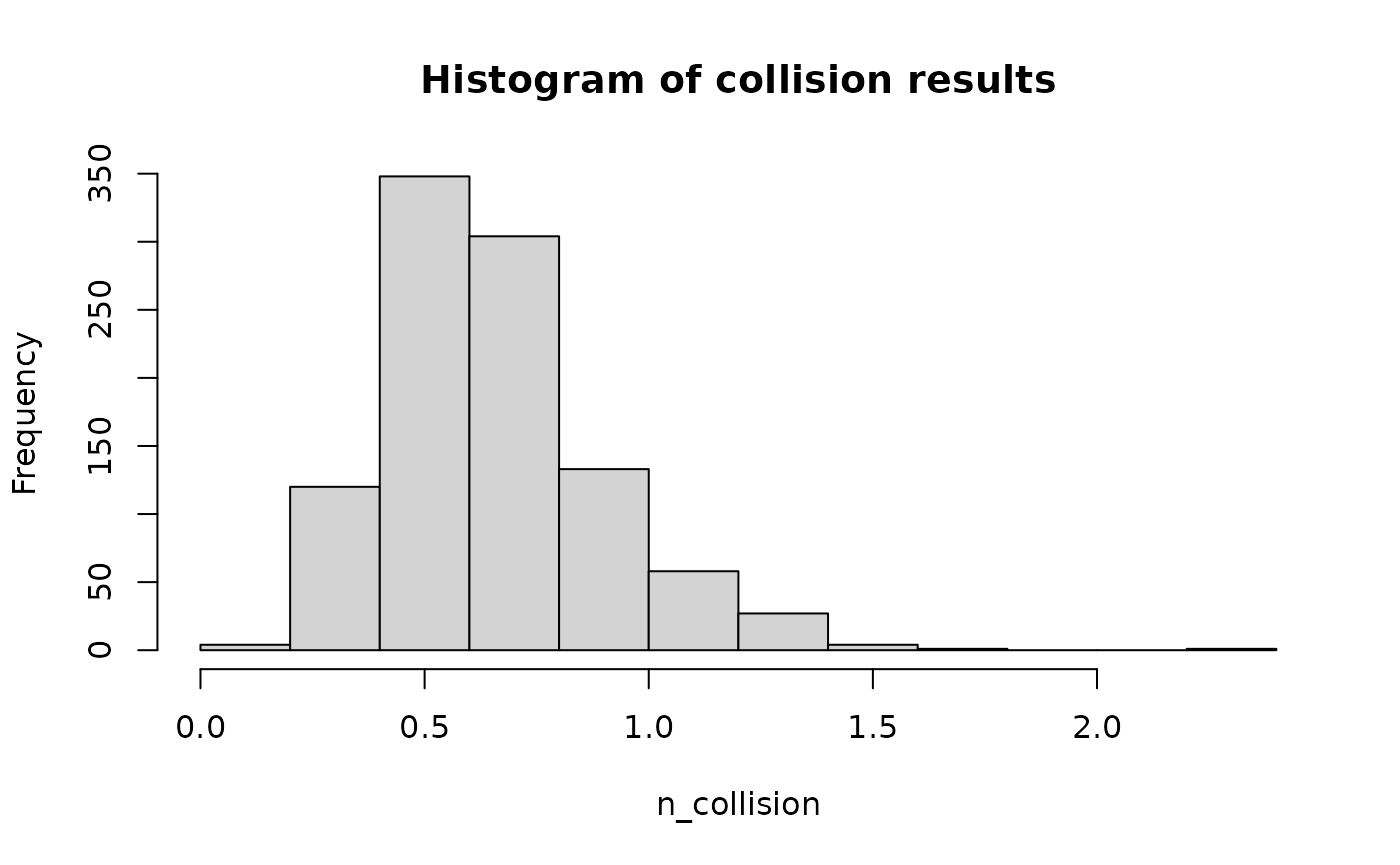
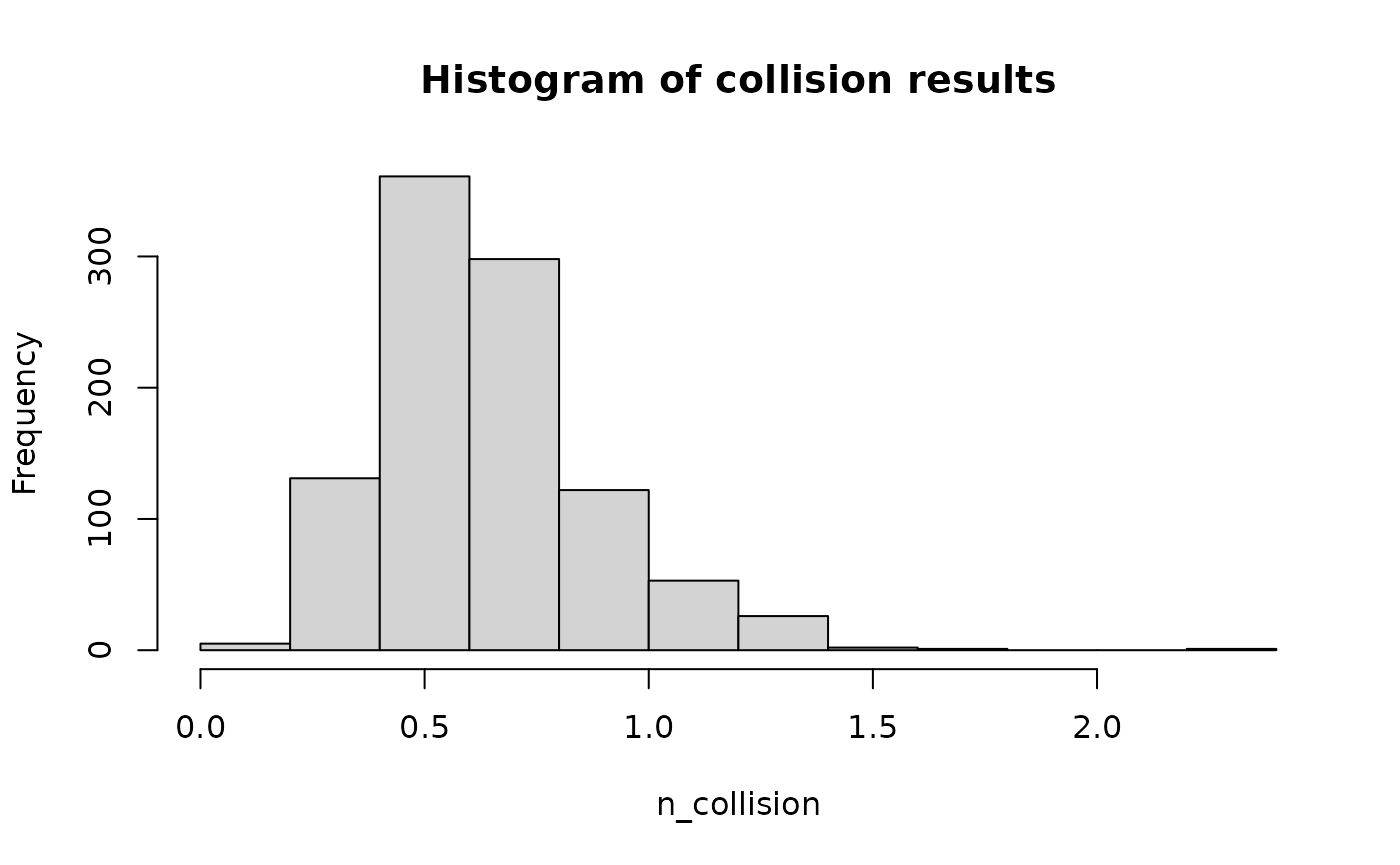
Deploying to gh-pages from @ SymbolixAU/collision@28f94b2912ca076bbca2ce5d2544dd3ceb6ca486 🚀

diff --git a/reference/define_turbine.html b/reference/define_turbine.html
@@ -1,5 +1,5 @@
 <!DOCTYPE html>
-<!-- Generated by pkgdown: do not edit by hand --><html lang="en"><head><meta http-equiv="Content-Type" content="text/html; charset=UTF-8"><meta charset="utf-8"><meta http-equiv="X-UA-Compatible" content="IE=edge"><meta name="viewport" content="width=device-width, initial-scale=1, shrink-to-fit=no"><title>define_turbine — define_turbine • collision</title><!-- favicons --><link rel="icon" type="image/png" sizes="96x96" href="../favicon-96x96.png"><link rel="icon" type="”image/svg+xml”" href="../favicon.svg"><link rel="apple-touch-icon" sizes="180x180" href="../apple-touch-icon.png"><link rel="icon" sizes="any" href="../favicon.ico"><link rel="manifest" href="../site.webmanifest"><script src="../deps/jquery-3.6.0/jquery-3.6.0.min.js"></script><meta name="viewport" content="width=device-width, initial-scale=1, shrink-to-fit=no"><link href="../deps/bootstrap-5.3.1/bootstrap.min.css" rel="stylesheet"><script src="../deps/bootstrap-5.3.1/bootstrap.bundle.min.js"></script><link href="../deps/font-awesome-6.5.2/css/all.min.css" rel="stylesheet"><link href="../deps/font-awesome-6.5.2/css/v4-shims.min.css" rel="stylesheet"><script src="../deps/headroom-0.11.0/headroom.min.js"></script><script src="../deps/headroom-0.11.0/jQuery.headroom.min.js"></script><script src="../deps/bootstrap-toc-1.0.1/bootstrap-toc.min.js"></script><script src="../deps/clipboard.js-2.0.11/clipboard.min.js"></script><script src="../deps/search-1.0.0/autocomplete.jquery.min.js"></script><script src="../deps/search-1.0.0/fuse.min.js"></script><script src="../deps/search-1.0.0/mark.min.js"></script><!-- pkgdown --><script src="../pkgdown.js"></script><meta property="og:title" content="define_turbine — define_turbine"><meta name="description" content="make a list of turbine parameters for input into the default CRM"><meta property="og:description" content="make a list of turbine parameters for input into the default CRM"><meta property="og:image" content="https://symbolixau.github.io/collision/logo.png"></head><body>
+<!-- Generated by pkgdown: do not edit by hand --><html lang="en"><head><meta http-equiv="Content-Type" content="text/html; charset=UTF-8"><meta charset="utf-8"><meta http-equiv="X-UA-Compatible" content="IE=edge"><meta name="viewport" content="width=device-width, initial-scale=1, shrink-to-fit=no"><title>define_turbine — define_turbine • collision</title><!-- favicons --><link rel="icon" type="image/png" sizes="96x96" href="../favicon-96x96.png"><link rel="icon" type="”image/svg+xml”" href="../favicon.svg"><link rel="apple-touch-icon" sizes="180x180" href="../apple-touch-icon.png"><link rel="icon" sizes="any" href="../favicon.ico"><link rel="manifest" href="../site.webmanifest"><script src="../deps/jquery-3.6.0/jquery-3.6.0.min.js"></script><meta name="viewport" content="width=device-width, initial-scale=1, shrink-to-fit=no"><link href="../deps/bootstrap-5.3.1/bootstrap.min.css" rel="stylesheet"><script src="../deps/bootstrap-5.3.1/bootstrap.bundle.min.js"></script><link href="../deps/font-awesome-6.5.2/css/all.min.css" rel="stylesheet"><link href="../deps/font-awesome-6.5.2/css/v4-shims.min.css" rel="stylesheet"><script src="../deps/headroom-0.11.0/headroom.min.js"></script><script src="../deps/headroom-0.11.0/jQuery.headroom.min.js"></script><script src="../deps/bootstrap-toc-1.0.1/bootstrap-toc.min.js"></script><script src="../deps/clipboard.js-2.0.11/clipboard.min.js"></script><script src="../deps/search-1.0.0/autocomplete.jquery.min.js"></script><script src="../deps/search-1.0.0/fuse.min.js"></script><script src="../deps/search-1.0.0/mark.min.js"></script><!-- pkgdown --><script src="../pkgdown.js"></script><meta property="og:title" content="define_turbine — define_turbine"><meta name="description" content="Make a list of turbine parameters for input into the default CRM."><meta property="og:description" content="Make a list of turbine parameters for input into the default CRM."><meta property="og:image" content="https://symbolixau.github.io/collision/logo.png"></head><body>
     <a href="#main" class="visually-hidden-focusable">Skip to contents</a>
 
 
@@ -39,7 +39,7 @@
     </div>
 
     <div class="ref-description section level2">
-    <p>make a list of turbine parameters for input into the default CRM</p>
+    <p>Make a list of turbine parameters for input into the default CRM.</p>
     </div>
 
     <div class="section level2">
@@ -70,8 +70,7 @@
 
 
 <dl><dt id="arg-model-id">model_id<a class="anchor" aria-label="anchor" href="#arg-model-id"></a></dt>
-<dd><p>character; Label for turbine model - allows the user to
-define multiple turbine types on a site</p></dd>
+<dd><p>character; Label for turbine model</p></dd>
 
 
 <dt id="arg-blade-length">blade_length<a class="anchor" aria-label="anchor" href="#arg-blade-length"></a></dt>
@@ -142,12 +141,12 @@ are operational. A single number or distribution information using
 </dl></div>
     <div class="section level2">
     <h2 id="value">Value<a class="anchor" aria-label="anchor" href="#value"></a></h2>
-    <p>list where items define the value or stochastic distribution for
+    <p>list whose items define the value or stochastic distribution for
 each parameter</p>
     </div>
     <div class="section level2">
     <h2 id="details">Details<a class="anchor" aria-label="anchor" href="#details"></a></h2>
-    <p>Makes a list of parameters for the a given turbine</p>
+    <p>Makes a list of parameters for the a given turbine.</p>
     </div>
     <div class="section level2">
     <h2 id="details-1">Details<a class="anchor" aria-label="anchor" href="#details-1"></a></h2>
@@ -156,7 +155,11 @@ See <a href="set_random.html">set_random</a> for more information on setting
 up stochastic inputs.</p></li>
 <li><p>a single number representing the average (preferably median) of the
 variable</p></li>
-</ul></div>
+</ul><p>If this object is being defined for multiple turbines of the same model
+<code>prop_operational</code> should be the average between all turbines. For example
+if there are two turbines, and one is operational for 24 hours while the other
+is operational for 18 hours each day, then <code>prop_operational = (0.75 + 1)/2 = 0.875</code>.</p>
+    </div>
 
     <div class="section level2">
     <h2 id="ref-examples">Examples<a class="anchor" aria-label="anchor" href="#ref-examples"></a></h2>

diff --git a/reference/prob_collision_dynamic.html b/reference/prob_collision_dynamic.html
@@ -55,7 +55,8 @@
 <span>  <span class="va">bird_length</span>,</span>
 <span>  <span class="va">bird_speed</span>,</span>
 <span>  <span class="va">prop_at_height</span>,</span>
-<span>  <span class="va">prop_below_height</span></span>
+<span>  <span class="va">prop_below_height</span>,</span>
+<span>  prop_operational <span class="op">=</span> <span class="fl">1</span></span>
 <span><span class="op">)</span></span></code></pre></div>
     </div>
 
@@ -105,6 +106,12 @@
 
 <dt id="arg-prop-below-height">prop_below_height<a class="anchor" aria-label="anchor" href="#arg-prop-below-height"></a></dt>
 <dd><p>proportion of flights below rotor swept height</p></dd>
+
+
+<dt id="arg-prop-operational">prop_operational<a class="anchor" aria-label="anchor" href="#arg-prop-operational"></a></dt>
+<dd><p>numeric; Proportion of a 24 hour day that turbines
+are operational. A single number or distribution information using
+<a href="set_random.html">set_random</a>. Default 1. See <code><a href="define_turbine.html">define_turbine()</a></code> for more detail.</p></dd>
 
 </dl></div>
     <div class="section level2">

diff --git a/reference/define_bird.html b/reference/define_bird.html
@@ -1,5 +1,5 @@
 <!DOCTYPE html>
-<!-- Generated by pkgdown: do not edit by hand --><html lang="en"><head><meta http-equiv="Content-Type" content="text/html; charset=UTF-8"><meta charset="utf-8"><meta http-equiv="X-UA-Compatible" content="IE=edge"><meta name="viewport" content="width=device-width, initial-scale=1, shrink-to-fit=no"><title>make a list of bird parameters for input into CRM — define_bird • collision</title><!-- favicons --><link rel="icon" type="image/png" sizes="96x96" href="../favicon-96x96.png"><link rel="icon" type="”image/svg+xml”" href="../favicon.svg"><link rel="apple-touch-icon" sizes="180x180" href="../apple-touch-icon.png"><link rel="icon" sizes="any" href="../favicon.ico"><link rel="manifest" href="../site.webmanifest"><script src="../deps/jquery-3.6.0/jquery-3.6.0.min.js"></script><meta name="viewport" content="width=device-width, initial-scale=1, shrink-to-fit=no"><link href="../deps/bootstrap-5.3.1/bootstrap.min.css" rel="stylesheet"><script src="../deps/bootstrap-5.3.1/bootstrap.bundle.min.js"></script><link href="../deps/font-awesome-6.5.2/css/all.min.css" rel="stylesheet"><link href="../deps/font-awesome-6.5.2/css/v4-shims.min.css" rel="stylesheet"><script src="../deps/headroom-0.11.0/headroom.min.js"></script><script src="../deps/headroom-0.11.0/jQuery.headroom.min.js"></script><script src="../deps/bootstrap-toc-1.0.1/bootstrap-toc.min.js"></script><script src="../deps/clipboard.js-2.0.11/clipboard.min.js"></script><script src="../deps/search-1.0.0/autocomplete.jquery.min.js"></script><script src="../deps/search-1.0.0/fuse.min.js"></script><script src="../deps/search-1.0.0/mark.min.js"></script><!-- pkgdown --><script src="../pkgdown.js"></script><meta property="og:title" content="make a list of bird parameters for input into CRM — define_bird"><meta name="description" content="Makes a list of avian biological parameters for the bird(s) being modelled
+<!-- Generated by pkgdown: do not edit by hand --><html lang="en"><head><meta http-equiv="Content-Type" content="text/html; charset=UTF-8"><meta charset="utf-8"><meta http-equiv="X-UA-Compatible" content="IE=edge"><meta name="viewport" content="width=device-width, initial-scale=1, shrink-to-fit=no"><title>Make a list of bird parameters for input into CRM — define_bird • collision</title><!-- favicons --><link rel="icon" type="image/png" sizes="96x96" href="../favicon-96x96.png"><link rel="icon" type="”image/svg+xml”" href="../favicon.svg"><link rel="apple-touch-icon" sizes="180x180" href="../apple-touch-icon.png"><link rel="icon" sizes="any" href="../favicon.ico"><link rel="manifest" href="../site.webmanifest"><script src="../deps/jquery-3.6.0/jquery-3.6.0.min.js"></script><meta name="viewport" content="width=device-width, initial-scale=1, shrink-to-fit=no"><link href="../deps/bootstrap-5.3.1/bootstrap.min.css" rel="stylesheet"><script src="../deps/bootstrap-5.3.1/bootstrap.bundle.min.js"></script><link href="../deps/font-awesome-6.5.2/css/all.min.css" rel="stylesheet"><link href="../deps/font-awesome-6.5.2/css/v4-shims.min.css" rel="stylesheet"><script src="../deps/headroom-0.11.0/headroom.min.js"></script><script src="../deps/headroom-0.11.0/jQuery.headroom.min.js"></script><script src="../deps/bootstrap-toc-1.0.1/bootstrap-toc.min.js"></script><script src="../deps/clipboard.js-2.0.11/clipboard.min.js"></script><script src="../deps/search-1.0.0/autocomplete.jquery.min.js"></script><script src="../deps/search-1.0.0/fuse.min.js"></script><script src="../deps/search-1.0.0/mark.min.js"></script><!-- pkgdown --><script src="../pkgdown.js"></script><meta property="og:title" content="Make a list of bird parameters for input into CRM — define_bird"><meta name="description" content="Makes a list of avian biological parameters for the bird(s) being modelled
 as a function directly in R. This function is designed for R-based workflows.
 A function define_bird_csv can be used to bulk upload parameters for
 multiple birds."><meta property="og:description" content="Makes a list of avian biological parameters for the bird(s) being modelled
@@ -39,7 +39,7 @@ multiple birds."><meta property="og:image" content="https://symbolixau.github.io
 </nav><div class="container template-reference-topic">
 <div class="row">
   <main id="main" class="col-md-9"><div class="page-header">
-      <img src="../logo.png" class="logo" alt=""><h1>make a list of bird parameters for input into CRM</h1>
+      <img src="../logo.png" class="logo" alt=""><h1>Make a list of bird parameters for input into CRM</h1>
       <small class="dont-index">Source: <a href="https://github.com/SymbolixAU/collision/blob/main/R/define_inputs.R" class="external-link"><code>R/define_inputs.R</code></a></small>
       <div class="d-none name"><code>define_bird.Rd</code></div>
     </div>
@@ -101,8 +101,7 @@ the bird is active onsite</p></dd>
 </dl></div>
     <div class="section level2">
     <h2 id="value">Value<a class="anchor" aria-label="anchor" href="#value"></a></h2>
-    <p>list where items define the value or stochastic distribution f
-or each parameter</p>
+    <p>list whose items define the value or stochastic distribution for each parameter</p>
     </div>
     <div class="section level2">
     <h2 id="details">Details<a class="anchor" aria-label="anchor" href="#details"></a></h2>

diff --git a/articles/simple-simulation-example.html b/articles/simple-simulation-example.html
@@ -652,7 +652,8 @@ collisions a year</li>
 <span>    bird_length <span class="op">=</span> <span class="va">bird_i</span><span class="op">$</span><span class="va">bird_length</span>,</span>
 <span>    bird_speed <span class="op">=</span> <span class="va">bird_i</span><span class="op">$</span><span class="va">bird_speed</span>,</span>
 <span>    prop_at_height <span class="op">=</span> <span class="va">prop_at_height1_i</span>,</span>
-<span>    prop_below_height <span class="op">=</span> <span class="va">prop_below_height1_i</span></span>
+<span>    prop_below_height <span class="op">=</span> <span class="va">prop_below_height1_i</span>,</span>
+<span>    prop_operational <span class="op">=</span> <span class="va">turbines1_i</span><span class="op">$</span><span class="va">prop_operational</span></span>
 <span>  <span class="op">)</span></span>
 <span>  </span>
 <span>  <span class="va">df_turbines_results</span><span class="op">[</span><span class="va">df_turbines_results</span><span class="op">$</span><span class="va">model</span> <span class="op">==</span> <span class="st">"Turbine 150"</span>,</span>
@@ -667,7 +668,8 @@ collisions a year</li>
 <span>    bird_length <span class="op">=</span> <span class="va">bird_i</span><span class="op">$</span><span class="va">bird_length</span>,</span>
 <span>    bird_speed <span class="op">=</span> <span class="va">bird_i</span><span class="op">$</span><span class="va">bird_speed</span>,</span>
 <span>    prop_at_height <span class="op">=</span> <span class="va">prop_at_height2_i</span>,</span>
-<span>    prop_below_height <span class="op">=</span> <span class="va">prop_below_height2_i</span></span>
+<span>    prop_below_height <span class="op">=</span> <span class="va">prop_below_height2_i</span>,</span>
+<span>    prop_operational <span class="op">=</span> <span class="va">turbines2_i</span><span class="op">$</span><span class="va">prop_operational</span></span>
 <span>  <span class="op">)</span></span>
 <span></span>
 <span></span>

diff --git a/articles/deterministic-example.html b/articles/deterministic-example.html
@@ -492,7 +492,8 @@ and the V90 turbine model.</p>
 <span>  bird_length <span class="op">=</span> <span class="va">wte</span><span class="op">$</span><span class="va">bird_length</span>,</span>
 <span>  bird_speed <span class="op">=</span> <span class="va">wte</span><span class="op">$</span><span class="va">bird_speed</span>,</span>
 <span>  prop_at_height <span class="op">=</span> <span class="va">prop_at_height</span>,</span>
-<span>  prop_below_height <span class="op">=</span> <span class="va">prop_below_height</span></span>
+<span>  prop_below_height <span class="op">=</span> <span class="va">prop_below_height</span>,</span>
+<span>  prop_operational <span class="op">=</span> <span class="va">v90_single</span><span class="op">$</span><span class="va">prop_operational</span></span>
 <span><span class="op">)</span></span></code></pre></div>
 </div>
 <div class="section level4">
@@ -515,7 +516,7 @@ number of expected collision per year.</p>
 <span></span>
 <span><span class="co">## For a final result, sum all turbines</span></span>
 <span><span class="fu"><a href="https://rdrr.io/r/base/sum.html" class="external-link">sum</a></span><span class="op">(</span><span class="va">df_turbines</span><span class="op">$</span><span class="va">n_collision</span><span class="op">)</span></span>
-<span><span class="co">#&gt; [1] 0.2053805</span></span></code></pre></div>
+<span><span class="co">#&gt; [1] 0.2012758</span></span></code></pre></div>
 <hr>
 </div>
 </div>

diff --git a/articles/one-bird-one-turbine.html b/articles/one-bird-one-turbine.html
@@ -209,11 +209,12 @@ and the V90.</p>
 <span>  bird_length <span class="op">=</span> <span class="va">wte</span><span class="op">$</span><span class="va">bird_length</span>,</span>
 <span>  bird_speed <span class="op">=</span> <span class="va">wte</span><span class="op">$</span><span class="va">bird_speed</span>,</span>
 <span>  prop_at_height <span class="op">=</span> <span class="fl">0.75</span>,</span>
-<span>  prop_below_height <span class="op">=</span> <span class="fl">0.2</span></span>
+<span>  prop_below_height <span class="op">=</span> <span class="fl">0.2</span>,</span>
+<span>  prop_operational <span class="op">=</span> <span class="va">v90_single</span><span class="op">$</span><span class="va">prop_operational</span></span>
 <span><span class="op">)</span></span>
 <span></span>
 <span><span class="va">p_coll_dyn</span> <span class="op">+</span> <span class="va">p_coll_static</span></span>
-<span><span class="co">#&gt; [1] 0.07960969</span></span></code></pre></div>
+<span><span class="co">#&gt; [1] 0.07869908</span></span></code></pre></div>
 <div class="section level4">
 <h4 id="hang-on---whats-that-edr">Hang on - what’s that <code>edr</code>?<a class="anchor" aria-label="anchor" href="#hang-on---whats-that-edr"></a>
 </h4>

diff --git a/reference/index.html b/reference/index.html
@@ -79,7 +79,7 @@
           <code><a href="define_bird.html">define_bird()</a></code>
 
         </dt>
-        <dd>make a list of bird parameters for input into CRM</dd>
+        <dd>Make a list of bird parameters for input into CRM</dd>
 
         <dt>
 

diff --git a/reference/define_turbine.md b/reference/define_turbine.md
@@ -1,6 +1,6 @@
 # define_turbine
 
-make a list of turbine parameters for input into the default CRM
+Make a list of turbine parameters for input into the default CRM.
 
 ## Usage
 
@@ -30,8 +30,7 @@ define_turbine(
 
 - model_id:
 
-  character; Label for turbine model - allows the user to define
-  multiple turbine types on a site
+  character; Label for turbine model
 
 - blade_length:
 
@@ -102,12 +101,12 @@ define_turbine(
 
 ## Value
 
-list where items define the value or stochastic distribution for each
+list whose items define the value or stochastic distribution for each
 parameter
 
 ## Details
 
-Makes a list of parameters for the a given turbine
+Makes a list of parameters for the a given turbine.
 
 ## Details
 
@@ -119,6 +118,12 @@ Each input to this function must be either
 
 - a single number representing the average (preferably median) of the
   variable
+
+If this object is being defined for multiple turbines of the same model
+`prop_operational` should be the average between all turbines. For
+example if there are two turbines, and one is operational for 24 hours
+while the other is operational for 18 hours each day, then
+`prop_operational = (0.75 + 1)/2 = 0.875`.
 
 ## Examples
 

diff --git a/reference/prob_collision_dynamic.md b/reference/prob_collision_dynamic.md
@@ -16,7 +16,8 @@ prob_collision_dynamic(
   bird_length,
   bird_speed,
   prop_at_height,
-  prop_below_height
+  prop_below_height,
+  prop_operational = 1
 )
 ```
 
@@ -66,6 +67,15 @@ prob_collision_dynamic(
 - prop_below_height:
 
   proportion of flights below rotor swept height
+
+- prop_operational:
+
+  numeric; Proportion of a 24 hour day that turbines are operational. A
+  single number or distribution information using
+  [set_random](https://symbolixau.github.io/collision/reference/set_random.md).
+  Default 1. See
+  [`define_turbine()`](https://symbolixau.github.io/collision/reference/define_turbine.md)
+  for more detail.
 
 ## Value
 

diff --git a/articles/simple-simulation-example.md b/articles/simple-simulation-example.md
@@ -607,7 +607,8 @@ lst_results <- lapply(1:iterations, function(i) {
     bird_length = bird_i$bird_length,
     bird_speed = bird_i$bird_speed,
     prop_at_height = prop_at_height1_i,
-    prop_below_height = prop_below_height1_i
+    prop_below_height = prop_below_height1_i,
+    prop_operational = turbines1_i$prop_operational
   )
   
   df_turbines_results[df_turbines_results$model == "Turbine 150",
@@ -622,7 +623,8 @@ lst_results <- lapply(1:iterations, function(i) {
     bird_length = bird_i$bird_length,
     bird_speed = bird_i$bird_speed,
     prop_at_height = prop_at_height2_i,
-    prop_below_height = prop_below_height2_i
+    prop_below_height = prop_below_height2_i,
+    prop_operational = turbines2_i$prop_operational
   )
 
 

diff --git a/articles/deterministic-example.md b/articles/deterministic-example.md
@@ -453,7 +453,8 @@ df_turbines$p_coll_dyn <- prob_collision_dynamic(
   bird_length = wte$bird_length,
   bird_speed = wte$bird_speed,
   prop_at_height = prop_at_height,
-  prop_below_height = prop_below_height
+  prop_below_height = prop_below_height,
+  prop_operational = v90_single$prop_operational
 )
 ```
 
@@ -477,7 +478,7 @@ df_turbines$n_collision <- n_collision(
 
 ## For a final result, sum all turbines
 sum(df_turbines$n_collision)
-#> [1] 0.2053805
+#> [1] 0.2012758
 ```
 
 ------------------------------------------------------------------------

diff --git a/articles/one-bird-one-turbine.md b/articles/one-bird-one-turbine.md
@@ -143,11 +143,12 @@ p_coll_dyn <- prob_collision_dynamic(
   bird_length = wte$bird_length,
   bird_speed = wte$bird_speed,
   prop_at_height = 0.75,
-  prop_below_height = 0.2
+  prop_below_height = 0.2,
+  prop_operational = v90_single$prop_operational
 )
 
 p_coll_dyn + p_coll_static
-#> [1] 0.07960969
+#> [1] 0.07869908
 ```
 
 #### Hang on - what’s that `edr`?